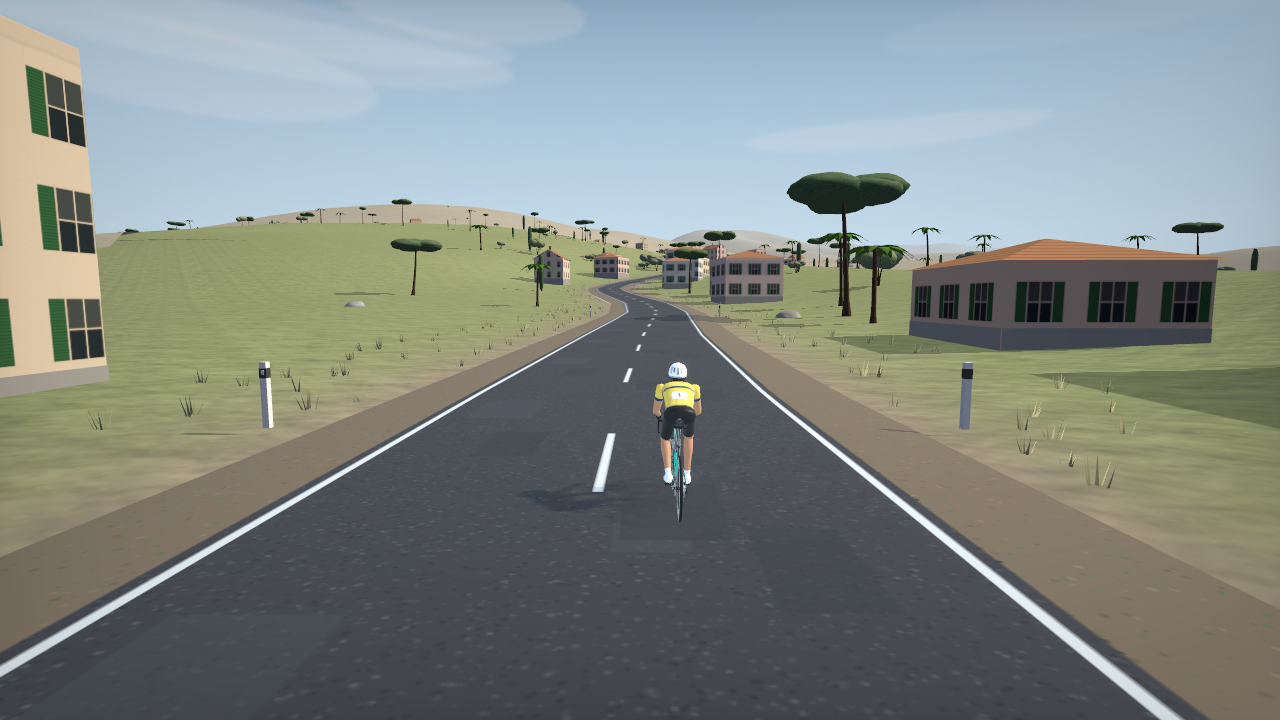
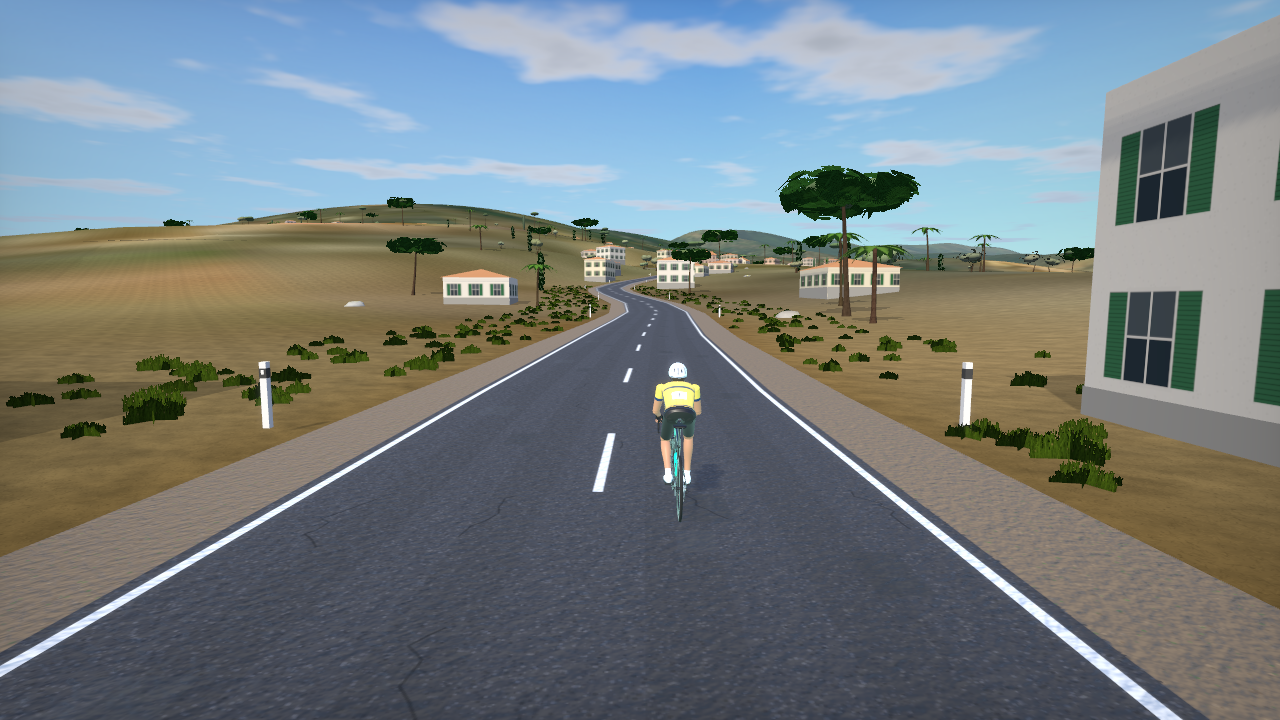
Refresh README screenshots with the photoreal pass
Claude-Session: https://claude.ai/code/session_01Kkmkr3xjaDpLK8kTVpPhLB

diff --git a/README.md b/README.md
@@ -6,7 +6,7 @@ Ride the Alpe d'Huez hairpins, the Stelvio, Mont Ventoux, the Zoncolan and the A
 
 ![Climbing the Stelvio with the in-ride HUD](docs/screenshots/stelvio-ride.png)
 
-| Stelvio hairpins (helicopter cam) | Trouée d'Arenberg cobbles |
+| Stelvio hairpins (helicopter cam) | Trouée d'Arenberg pavé |
 |---|---|
 | ![Stelvio](docs/screenshots/stelvio-hairpins.png) | ![Arenberg](docs/screenshots/arenberg.png) |
 | **Milan–San Remo finale (Liguria)** | **Alpe d'Huez (side cam)** |
@@ -17,7 +17,7 @@ Ride the Alpe d'Huez hairpins, the Stelvio, Mont Ventoux, the Zoncolan and the A
 | | |
 |---|---|
 | **Routes** | 16 real routes: Grand Tour climbs, Monuments & Classics, UCI World Championship circuits. Plus any GPX you import. |
-| **World** | 3D terrain from Copernicus EU-DEM / SRTM with cascaded shadows, roads cut into the hillside, layered spruce forests, broadleaf woods, stone pines, cypresses and palms, regional villages (chalets, Flemish brick, Mediterranean stucco, apartment blocks), crowds and camper vans on the climbs, guardrails, snow poles, KOM banners, French-style km markers, cobbled sectors, rippling lakes and sea. |
+| **World** | 3D terrain from Copernicus EU-DEM / SRTM draped with real Sentinel-2 satellite imagery, a physically based sky with clouds and haze, cascaded shadows, foliage built from hundreds of alpha-tested leaf and needle sprays per tree, roads cut into the hillside, layered spruce forests, broadleaf woods, stone pines, cypresses and palms, regional villages (chalets, Flemish brick, Mediterranean stucco, apartment blocks), crowds and camper vans on the climbs, guardrails, snow poles, KOM banners, French-style km markers, cobbled sectors, rippling lakes and sea. |
 | **Bikes** | 7 frames (aero, climbing, TT, endurance, gravel, steel, track) and 6 wheelsets, built from real frame geometry (stack, reach, tube angles) with aerofoil tubes, toothed chainrings and cassettes, a chain, derailleurs, disc brakes, laced spokes and clear-coat paint. Each changes weight, CdA, rim "sail" and rolling resistance. |
 | **Riders** | Anatomically lofted riders with kit panels, race numbers and vented helmets. Leg and arm IK with ankling; they switch between hoods, drops, descending tuck, out-of-the-saddle (the bike rocks) and TT extensions, and lean and steer through bends. |
 | **Modes** | Free Ride, Group Ride (pace partners), Race (AI field), Time Trial (no draft), Workout (ERG). |
@@ -122,7 +122,7 @@ Run the engine tests anywhere Swift runs: `swift test`.
 
 - **No online multiplayer.** Other riders are physics-simulated AI (pace partners and a race field matched to your FTP), not real people.
 - **No licensed brand bikes.** The frames and wheels are generic archetypes with realistic physics. Real brand models would need trademark licences.
-- Graphics are fully procedural (no art team or scanned assets): detailed, but stylised rather than photoreal.
+- Apart from the satellite imagery, everything is generated procedurally (no art team or scanned assets). It aims for realism but is not a AAA photogrammetry world: close-up ground relies on imagery at 4–13 m per pixel plus detail textures.
 - Some city circuits are approximate (see above). The mountain climbs match their race-book figures.
 
 ## Attribution
